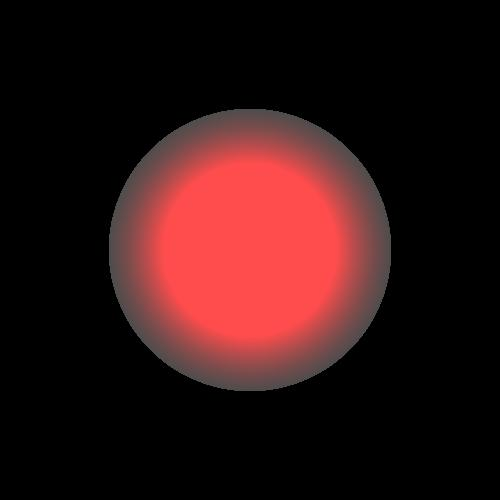
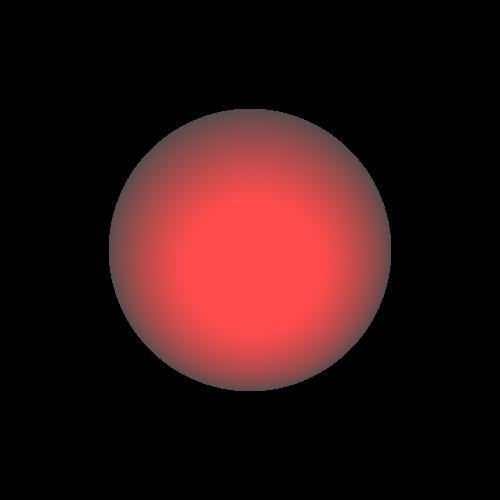
updated

Changed region(s): [[0.24, 0.42, 0.78, 0.78], [0.3, 0.27, 0.69, 0.57]]

diff --git a/src/unitTests/RenderTest.java b/src/unitTests/RenderTest.java
@@ -51,7 +51,7 @@ public class RenderTest {
 		Geometries geometries = new Geometries();
 		scene.set_geometries(geometries);
 		scene.set_ambientLight(new AmbientLight(new Color (255,255,255),0.3));
-		scene.get_lights().add(new DirectionalLight(new Vector(10,3,0),new Color(0,0,255)));
+		scene.get_lights().add(new DirectionalLight(new Vector(1,0,0),new Color(255,255,255)));
 		
 		geometries.addGeometry(new Sphere(50, new Point3D(0, 0, 150),new Color(0,0,0),new Material (1,1,1)));
 		
@@ -62,6 +62,7 @@ public class RenderTest {
 		//render.printGrid(50);
 		render.writeToimage();
 	}
+
 	
 	@Test
 	public void Pointlighttest() {
@@ -93,9 +94,9 @@ public class RenderTest {
 		Geometries geometries = new Geometries();
 		scene.set_geometries(geometries);
 		scene.set_ambientLight(new AmbientLight(new Color (255,255,255),0.3));
-		scene.get_lights().add(new SpotLight(new Point3D(0,0,0),1,0,1,new Color(255,0,0),new Vector(0,0,50)));
+		scene.get_lights().add(new SpotLight(new Point3D(0,0,0),1,1,0,new Color(255,0,0),new Vector(1,5,6)));
 		
-		geometries.addGeometry(new Sphere(50, new Point3D(0, 0, 150),new Color(0,0,0),new Material(20,1,4)));
+		geometries.addGeometry(new Sphere(50, new Point3D(0, 0, 150),new Color(0,0,0),new Material(5,1,1)));
 	
 		ImageWriter imageWriter = new ImageWriter("spot", 500, 500, 500, 500);
 		Render render = new Render(imageWriter, scene);
